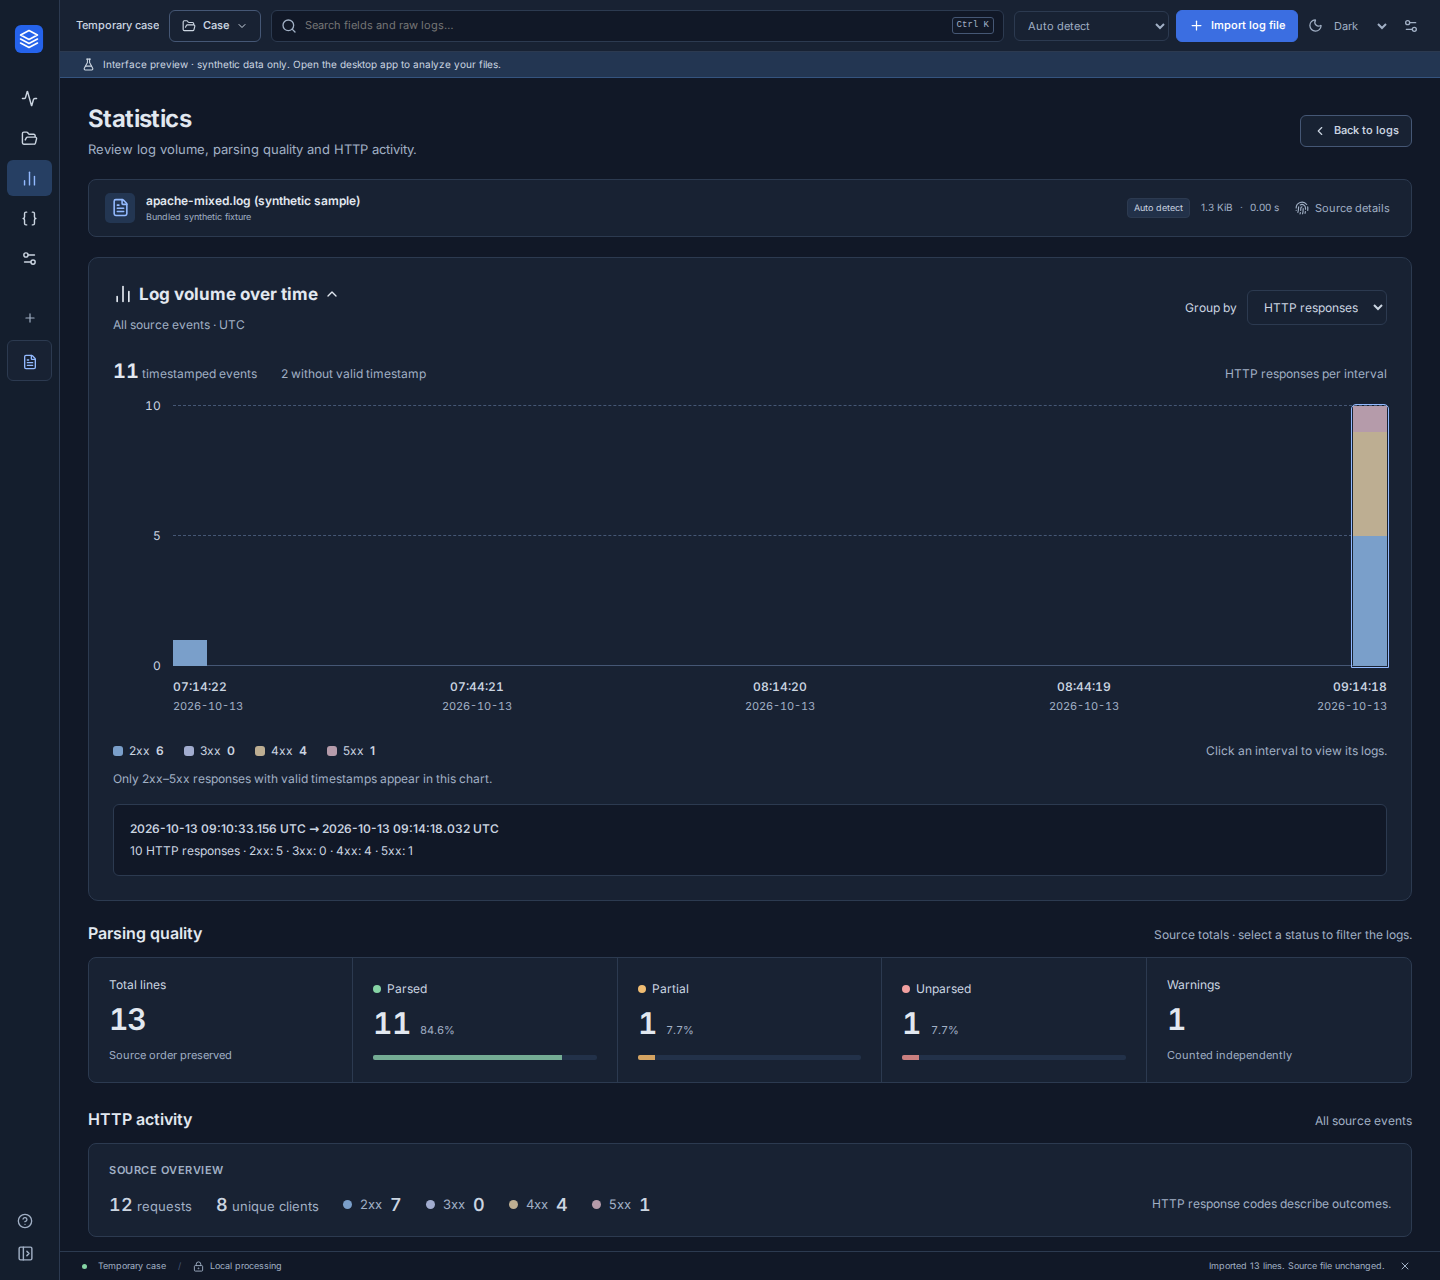
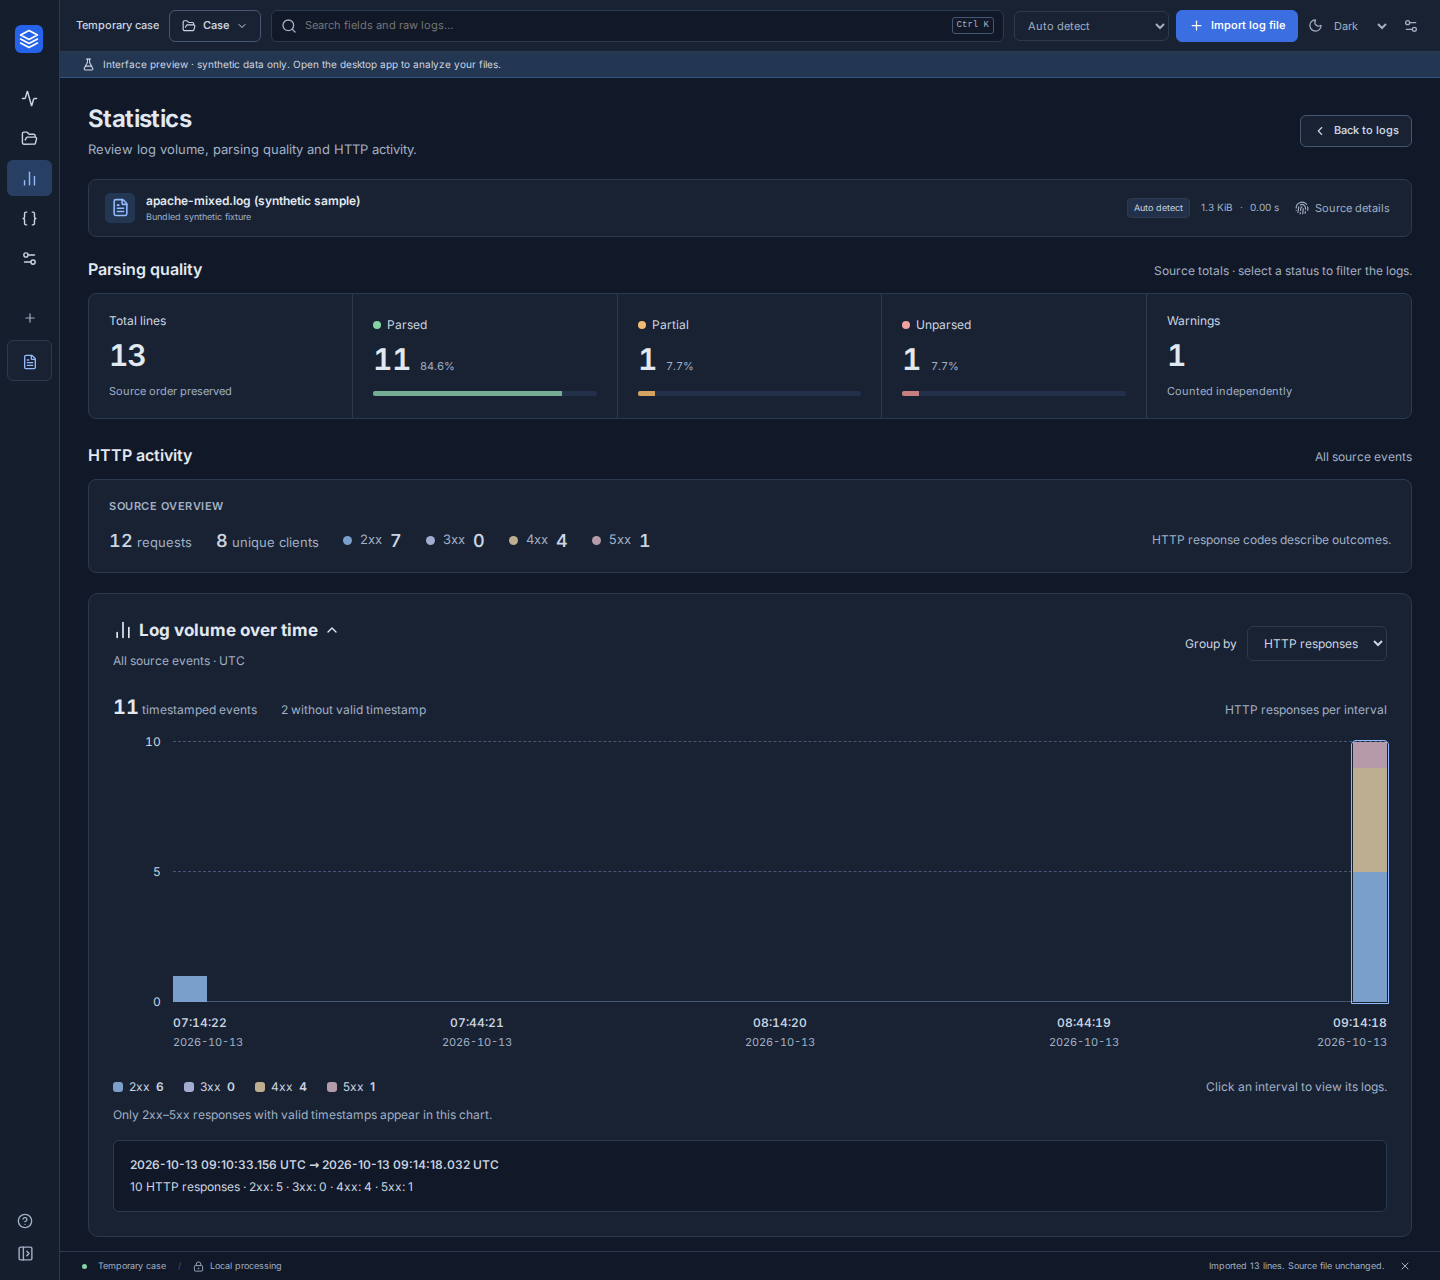
fix: place Statistics timeline after summaries
Show parsing counters and HTTP activity first while preserving the 260 px timeline plot. Refresh the review captures and design report.

Agent: Codex

diff --git a/src/App.tsx b/src/App.tsx
@@ -852,6 +852,16 @@ export function App({ bridge }: { bridge: Bridge }) {
                   source={source}
                   onEvidence={() => navigate("Evidence")}
                 />
+                <ParsingSummary
+                  source={source}
+                  disabled={busy}
+                  stats={page.statistics}
+                  available={pageAvailable && !loading && !busy}
+                  pending={loading || busy}
+                  filtered={filtered}
+                  active={parseStatus}
+                  onFilter={statusFilter}
+                />
                 <TimelineChart
                   stats={page.statistics}
                   filtered={filtered}
@@ -862,16 +872,6 @@ export function App({ bridge }: { bridge: Bridge }) {
                     rangeFilter([from, to]);
                     setView("Explore");
                   }}
-                />
-                <ParsingSummary
-                  source={source}
-                  disabled={busy}
-                  stats={page.statistics}
-                  available={pageAvailable && !loading && !busy}
-                  pending={loading || busy}
-                  filtered={filtered}
-                  active={parseStatus}
-                  onFilter={statusFilter}
                 />
               </>
             ) : (

diff --git a/docs/statistics-design.md b/docs/statistics-design.md
@@ -2,7 +2,7 @@
 
 This change improves the MVP 1 Statistics page before MVP 2 development.
 
-The timeline is the main visualization, with a 260 px plot instead of the previous 44 px histogram. Whole-count volume ticks, grid lines and five UTC date/time labels make peaks and quiet intervals easier to compare. Short ranges display milliseconds. Parsing and HTTP distributions have visible legends with counts, including at the minimum desktop width. Hovering or focusing an interval shows its exact UTC bounds and distribution; clicking or pressing Enter returns to the matching logs.
+Statistics starts with parsing totals and HTTP activity, followed by the timeline at the end. The timeline retains its 260 px plot instead of the previous 44 px histogram. Whole-count volume ticks, grid lines and five UTC date/time labels make peaks and quiet intervals easier to compare. Short ranges display milliseconds. Parsing and HTTP distributions have visible legends with counts, including at the minimum desktop width. Hovering or focusing an interval shows its exact UTC bounds and distribution; clicking or pressing Enter returns to the matching logs.
 
 Parsing totals now use larger numbers, labels and proportion tracks. Separate headings distinguish source parsing totals from HTTP aggregates and the timeline, which follow the current filters. Timeline legends count only timestamped events; the HTTP chart additionally covers only 2xx–5xx responses. Missing timestamps, empty results and unavailable statistics remain explicit.
 
